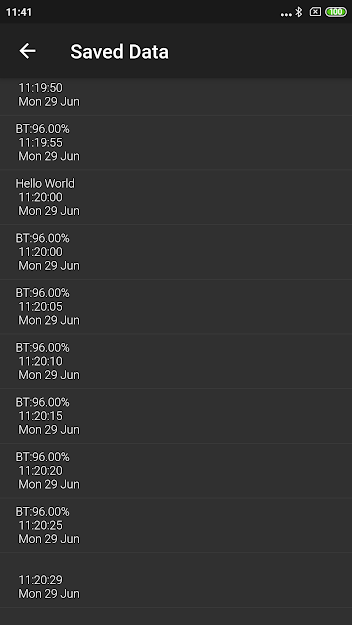
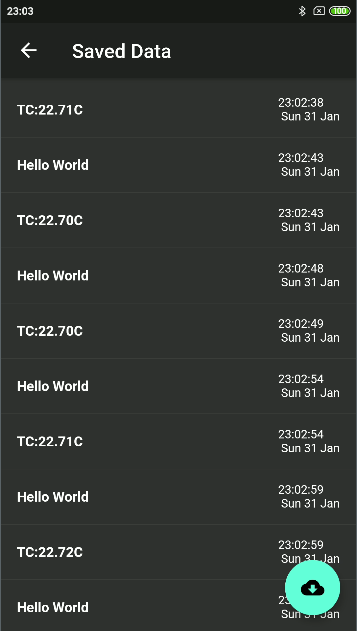
Added CSV export and minor design corrections

diff --git a/lib/main.dart b/lib/main.dart
@@ -1,11 +1,14 @@
 import 'dart:async';
 import 'dart:convert';
+import 'dart:io';
 
+import 'package:csv/csv.dart';
 import 'package:flutter/material.dart';
 import 'package:flutter_blue/flutter_blue.dart';
 import 'package:flutter_ble_app/widgets.dart';
 import 'package:charts_flutter/flutter.dart' as charts;
 import 'package:intl/intl.dart';
+import 'package:path_provider/path_provider.dart';
 import 'package:shared_preferences/shared_preferences.dart';
 import 'package:http/http.dart' as http;
 
@@ -38,10 +41,10 @@ class LineAnimationZoomChart extends StatelessWidget {
 
     return [
       new charts.Series<LinearSales, int>(
-        id: 'Sales',
+        id: 'Line',
         colorFn: (_, __) => charts.MaterialPalette.purple.shadeDefault,
-        domainFn: (LinearSales sales, _) => sales.year,
-        measureFn: (LinearSales sales, _) => sales.sales,
+        domainFn: (LinearSales sales, _) => sales.x,
+        measureFn: (LinearSales sales, _) => sales.y,
         data: data,
       )
     ];
@@ -72,10 +75,10 @@ class LineAnimationZoomChart extends StatelessWidget {
 
 /// Sample linear data type.
 class LinearSales {
-  final int year;
-  final double sales;
+  final int x;
+  final double y;
 
-  LinearSales(this.year, this.sales);
+  LinearSales(this.x, this.y);
 }
 
 class FlutterBlueApp extends StatelessWidget {
@@ -231,17 +234,46 @@ class FindDevicesScreen extends StatelessWidget {
 }
 
 class DeviceScreen extends StatelessWidget {
-  Future<http.Response> postData(String sensorType, String value) {
-    return http.post(
-      'http://sensor-dashboards.herokuapp.com/api/add-data/',
-      headers: <String, String>{
-        'Content-Type': 'application/json; charset=UTF-8',
-      },
-      body: jsonEncode(<String, String>{
-        'sensor_type': sensorType,
-        'value': value,
-      }),
-    );
+  void postData(String sensorType, String value, BuildContext context) async {
+    final http.Response response = await http
+        .post(
+          'http://sensor-dashboards.herokuapp.com/api/add-data/',
+          headers: <String, String>{
+            'Content-Type': 'application/json; charset=UTF-8',
+          },
+          body: jsonEncode(<String, String>{
+            'sensor_type': sensorType,
+            'value': value,
+          }),
+        )
+        .catchError(
+            (onError) => ScaffoldMessenger.of(context).showSnackBar(SnackBar(
+                  content: const Text('Some Error occured'),
+                  duration: const Duration(seconds: 1),
+                  action: SnackBarAction(
+                    label: 'ACTION',
+                    onPressed: () {},
+                  ),
+                )));
+    if (response.statusCode == 201) {
+      ScaffoldMessenger.of(context).showSnackBar(SnackBar(
+        content: const Text('Data Uploaded successully!'),
+        duration: const Duration(seconds: 1),
+        action: SnackBarAction(
+          label: 'ACTION',
+          onPressed: () {},
+        ),
+      ));
+    } else {
+      ScaffoldMessenger.of(context).showSnackBar(SnackBar(
+        content: const Text('Some Error occured'),
+        duration: const Duration(seconds: 1),
+        action: SnackBarAction(
+          label: 'ACTION',
+          onPressed: () {},
+        ),
+      ));
+    }
   }
 
   const DeviceScreen(this.device);
@@ -702,9 +734,10 @@ class DeviceScreen extends StatelessWidget {
           mainAxisAlignment: MainAxisAlignment.end,
           children: <Widget>[
             FloatingActionButton(
-                child: Icon(Icons.cloud_upload),
-                onPressed: () => postData(
-                    tempValue.replaceAll(new RegExp('[^0-9.]'), ''), "466")),
+              child: Icon(Icons.cloud_upload),
+              onPressed: () => postData("1",
+                  tempValue.replaceAll(new RegExp('[^0-9.]'), ''), context),
+            ),
           ],
         ),
       ),
@@ -733,25 +766,24 @@ class DeviceScreen extends StatelessWidget {
           final Iterable<ListTile> tiles = _saved.map(
             (List pair) {
               return ListTile(
+                trailing: Text(
+                  pair[1],
+                  textAlign: TextAlign.left,
+                  style: TextStyle(
+                    fontWeight: FontWeight.w400,
+                    fontSize: 12,
+                  ),
+                ),
                 title: Row(
                   mainAxisAlignment: MainAxisAlignment.spaceBetween,
                   children: [
                     Text(
                       pair[0],
-                      textAlign: TextAlign.left,
+                      textAlign: TextAlign.right,
                       style: TextStyle(
                         fontWeight: FontWeight.w800,
                         fontSize: 14,
                       ),
-                    ),
-                    Text(
-                      pair[1],
-                      textAlign: TextAlign.right,
-                      style: TextStyle(
-                        fontWeight: FontWeight.w400,
-                        fontSize: 12,           
-                      ),
-                      
                     ),
                   ],
                 ),
@@ -768,9 +800,31 @@ class DeviceScreen extends StatelessWidget {
               title: Text('Saved Data'),
             ),
             body: ListView(children: divided),
+            floatingActionButton: Container(
+              alignment: Alignment.bottomCenter,
+              child: Row(
+                mainAxisAlignment: MainAxisAlignment.end,
+                children: <Widget>[
+                  FloatingActionButton(
+                    child: Icon(Icons.cloud_download),
+                    onPressed: () => _saveToFile(),
+                  ),
+                ],
+              ),
+            ),
           );
         },
       ),
     );
+  }
+
+  Future<void> _saveToFile() async {
+    List<List<dynamic>> listOfLists = _saved.toList();
+    String csv = ListToCsvConverter().convert(listOfLists);
+    final directory = await getExternalStorageDirectory();
+    final pathOfTheFileToWrite = directory.path + "/myCsvFile.csv";
+    File file = File(pathOfTheFileToWrite);
+    file.writeAsString(csv);
+
   }
 }

diff --git a/README.md b/README.md
@@ -1,9 +1,12 @@
 # flutter_ble_app
 
 Simple Flutter App that allows you to monitor changes in temperature, humidity, pressure or battery level received from Waspmote Device. Based on Flutter Blue example
-
+# Plotting received data in real time
 ![](preview/devices.png)|![](preview/chart.png)
+# Now all the data can be saved to CSV file 
 ![](preview/raw_message.png)|![](preview/saved_data.png)
+# Remote writing to characteristic
+![](preview/send_data.png)
 
 ## Current preview (dark theme)
 
